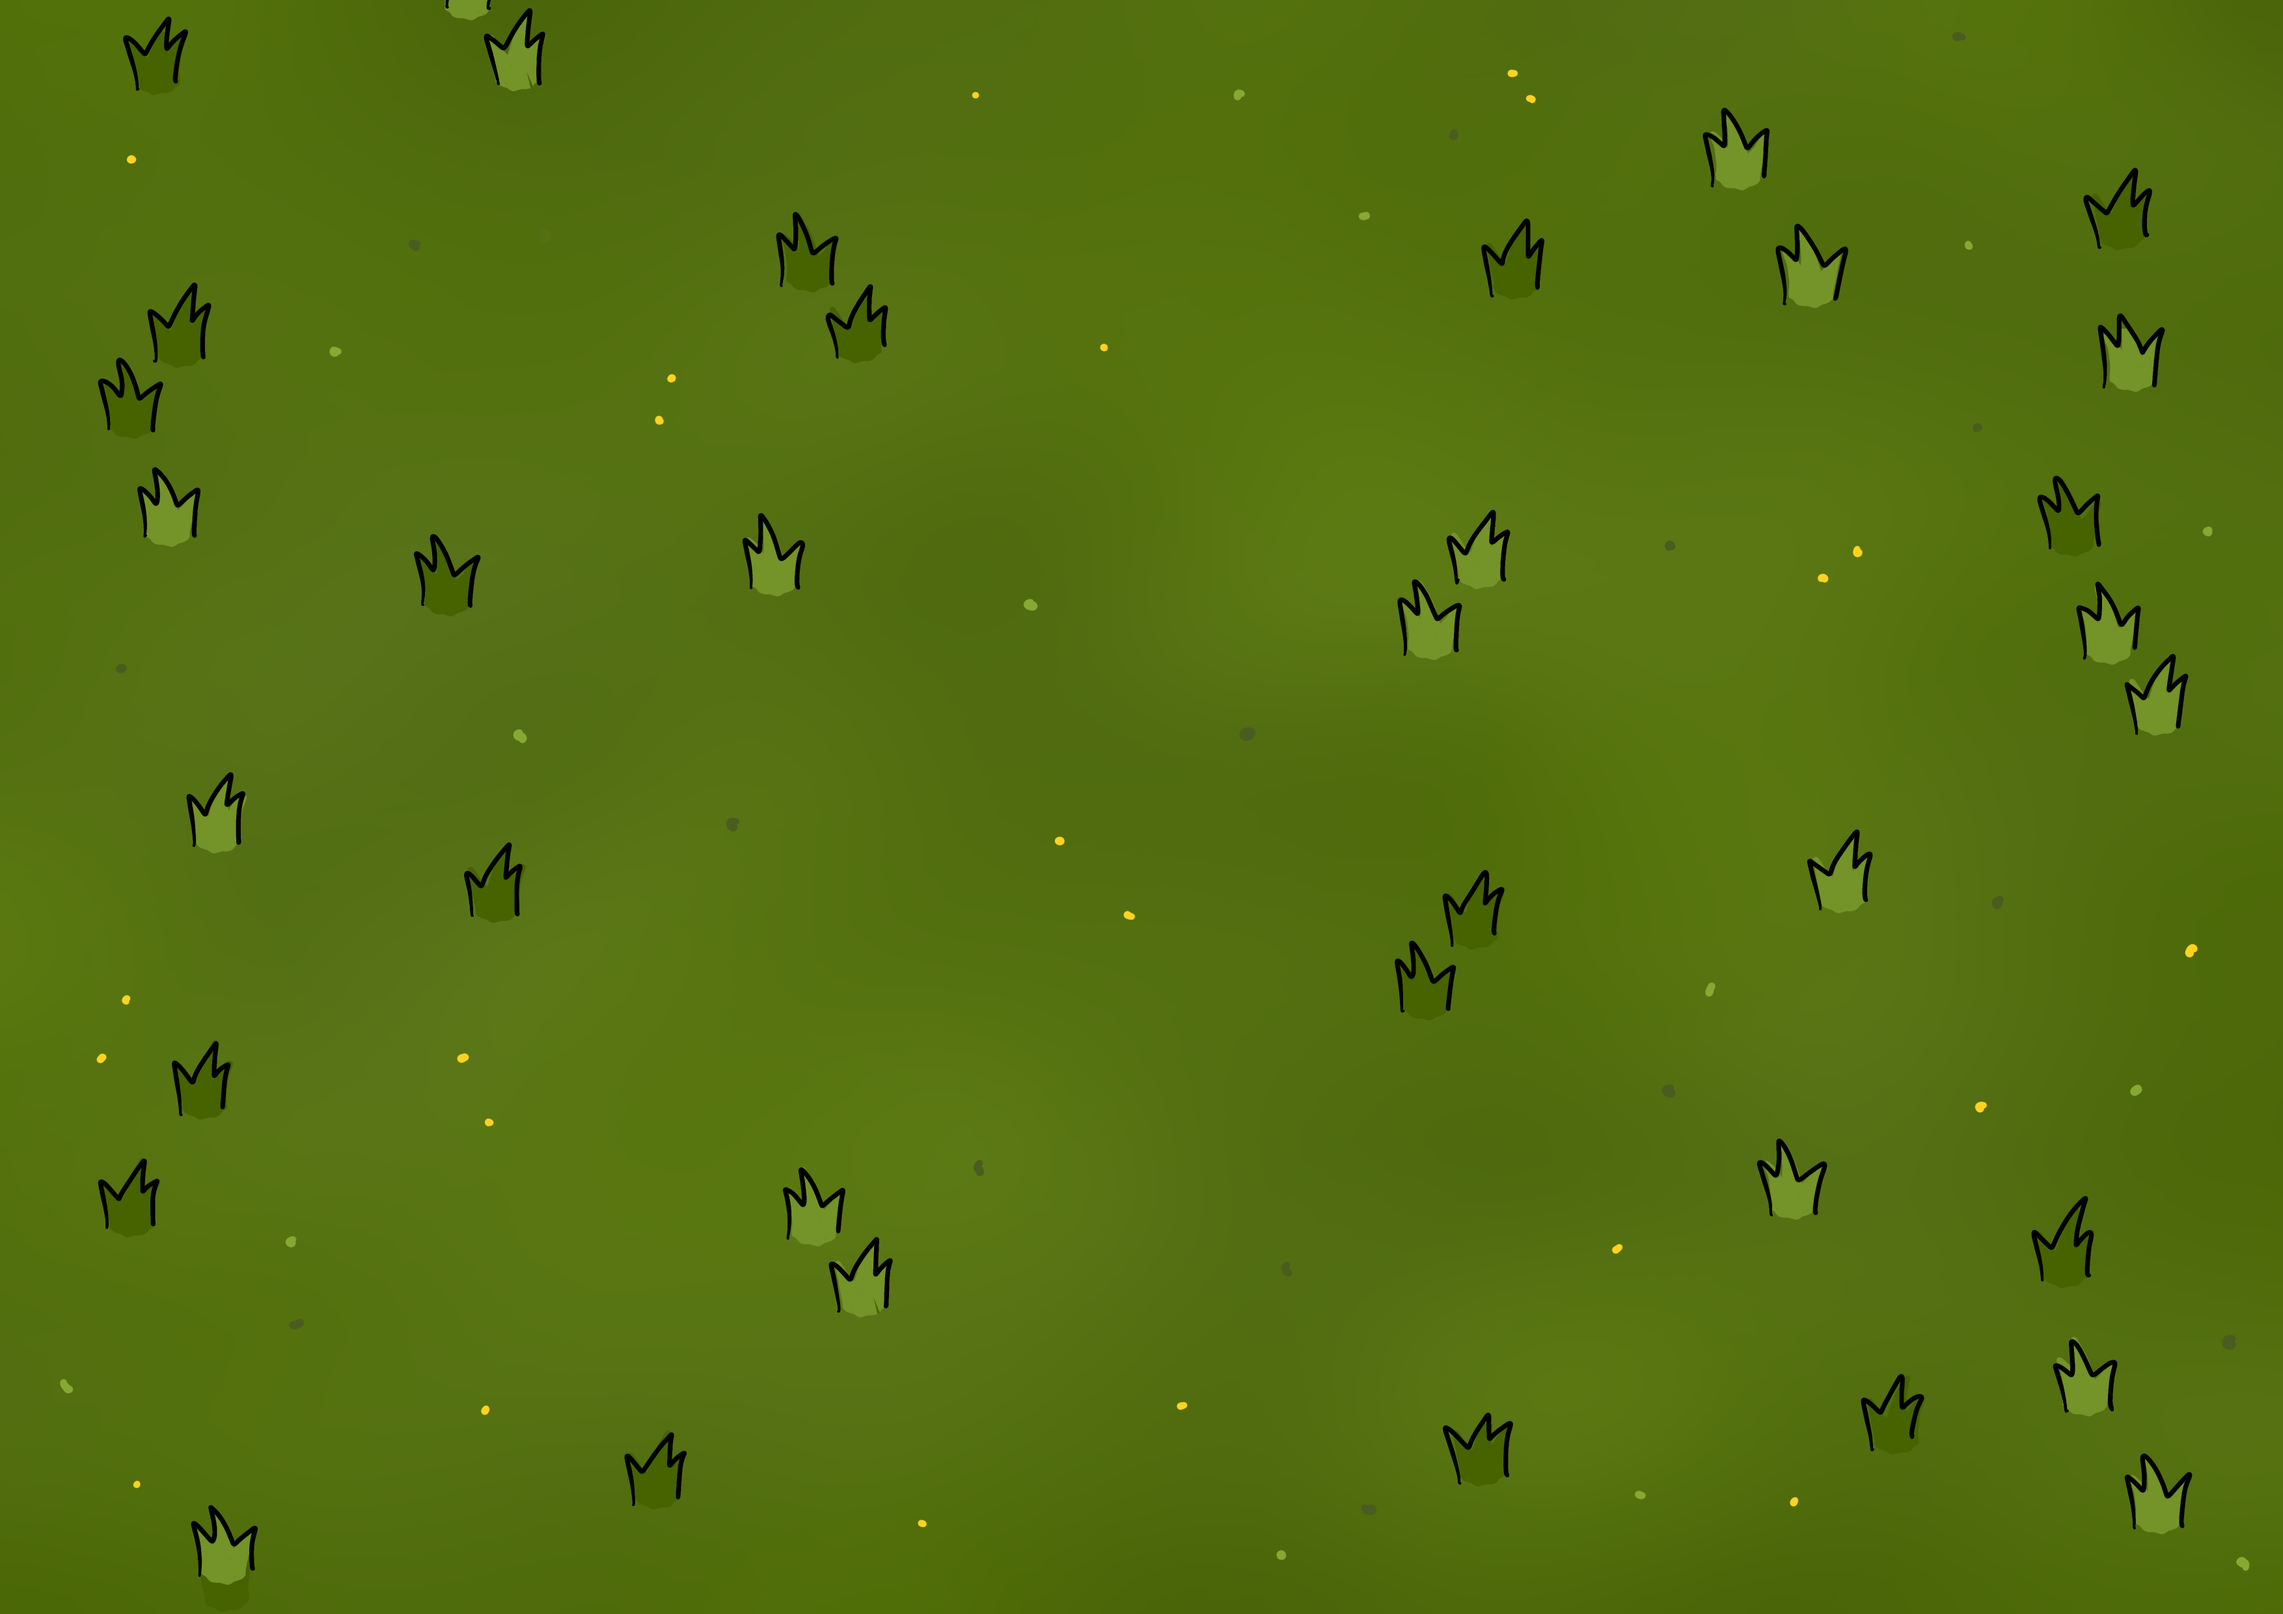
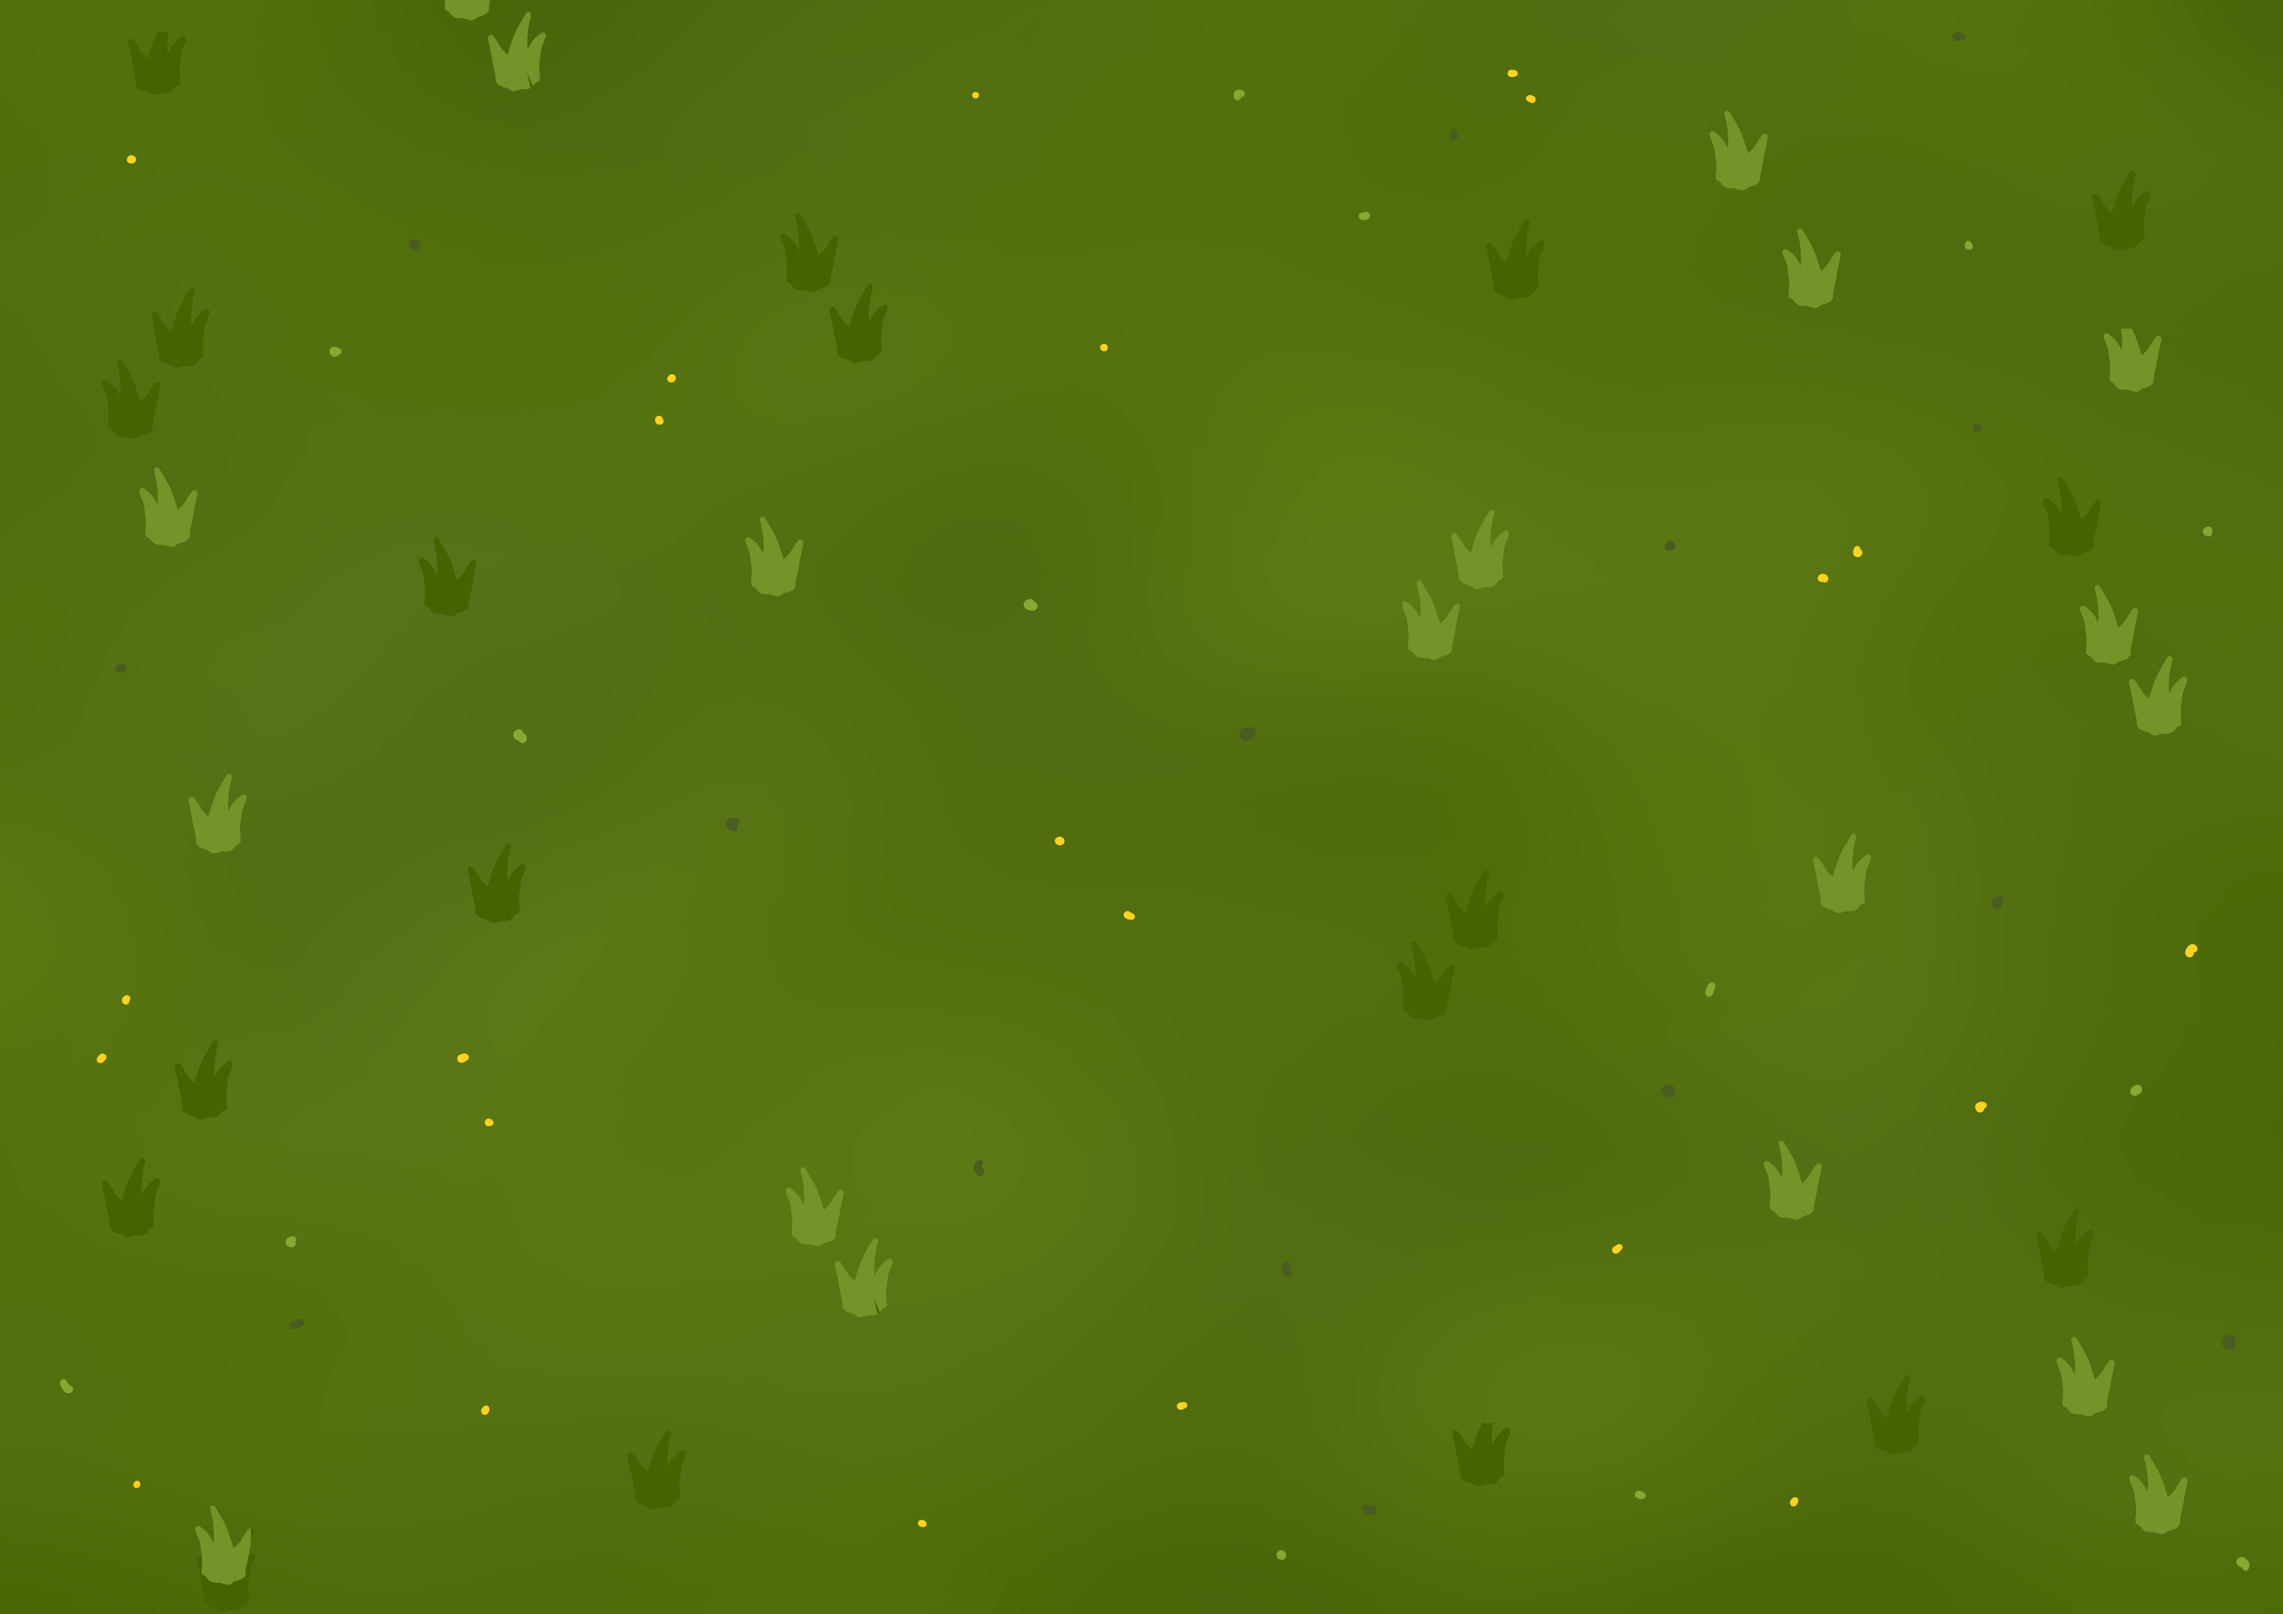
Hintergrund geändert

diff --git a/src/index.html b/src/index.html
@@ -52,7 +52,7 @@
         </div>
       </div>
       <div class="InsideContainer">
-        <div class="statustext">Willkommen</div>
+        <div class="statustext">Willkommen bei Dragons Dungeon!</div>
         <div class="crownContainer">
           <img class="kronen" src="./assets/menus/banner_withCrown.png" />
           <span class="ScoreText">0</span>
